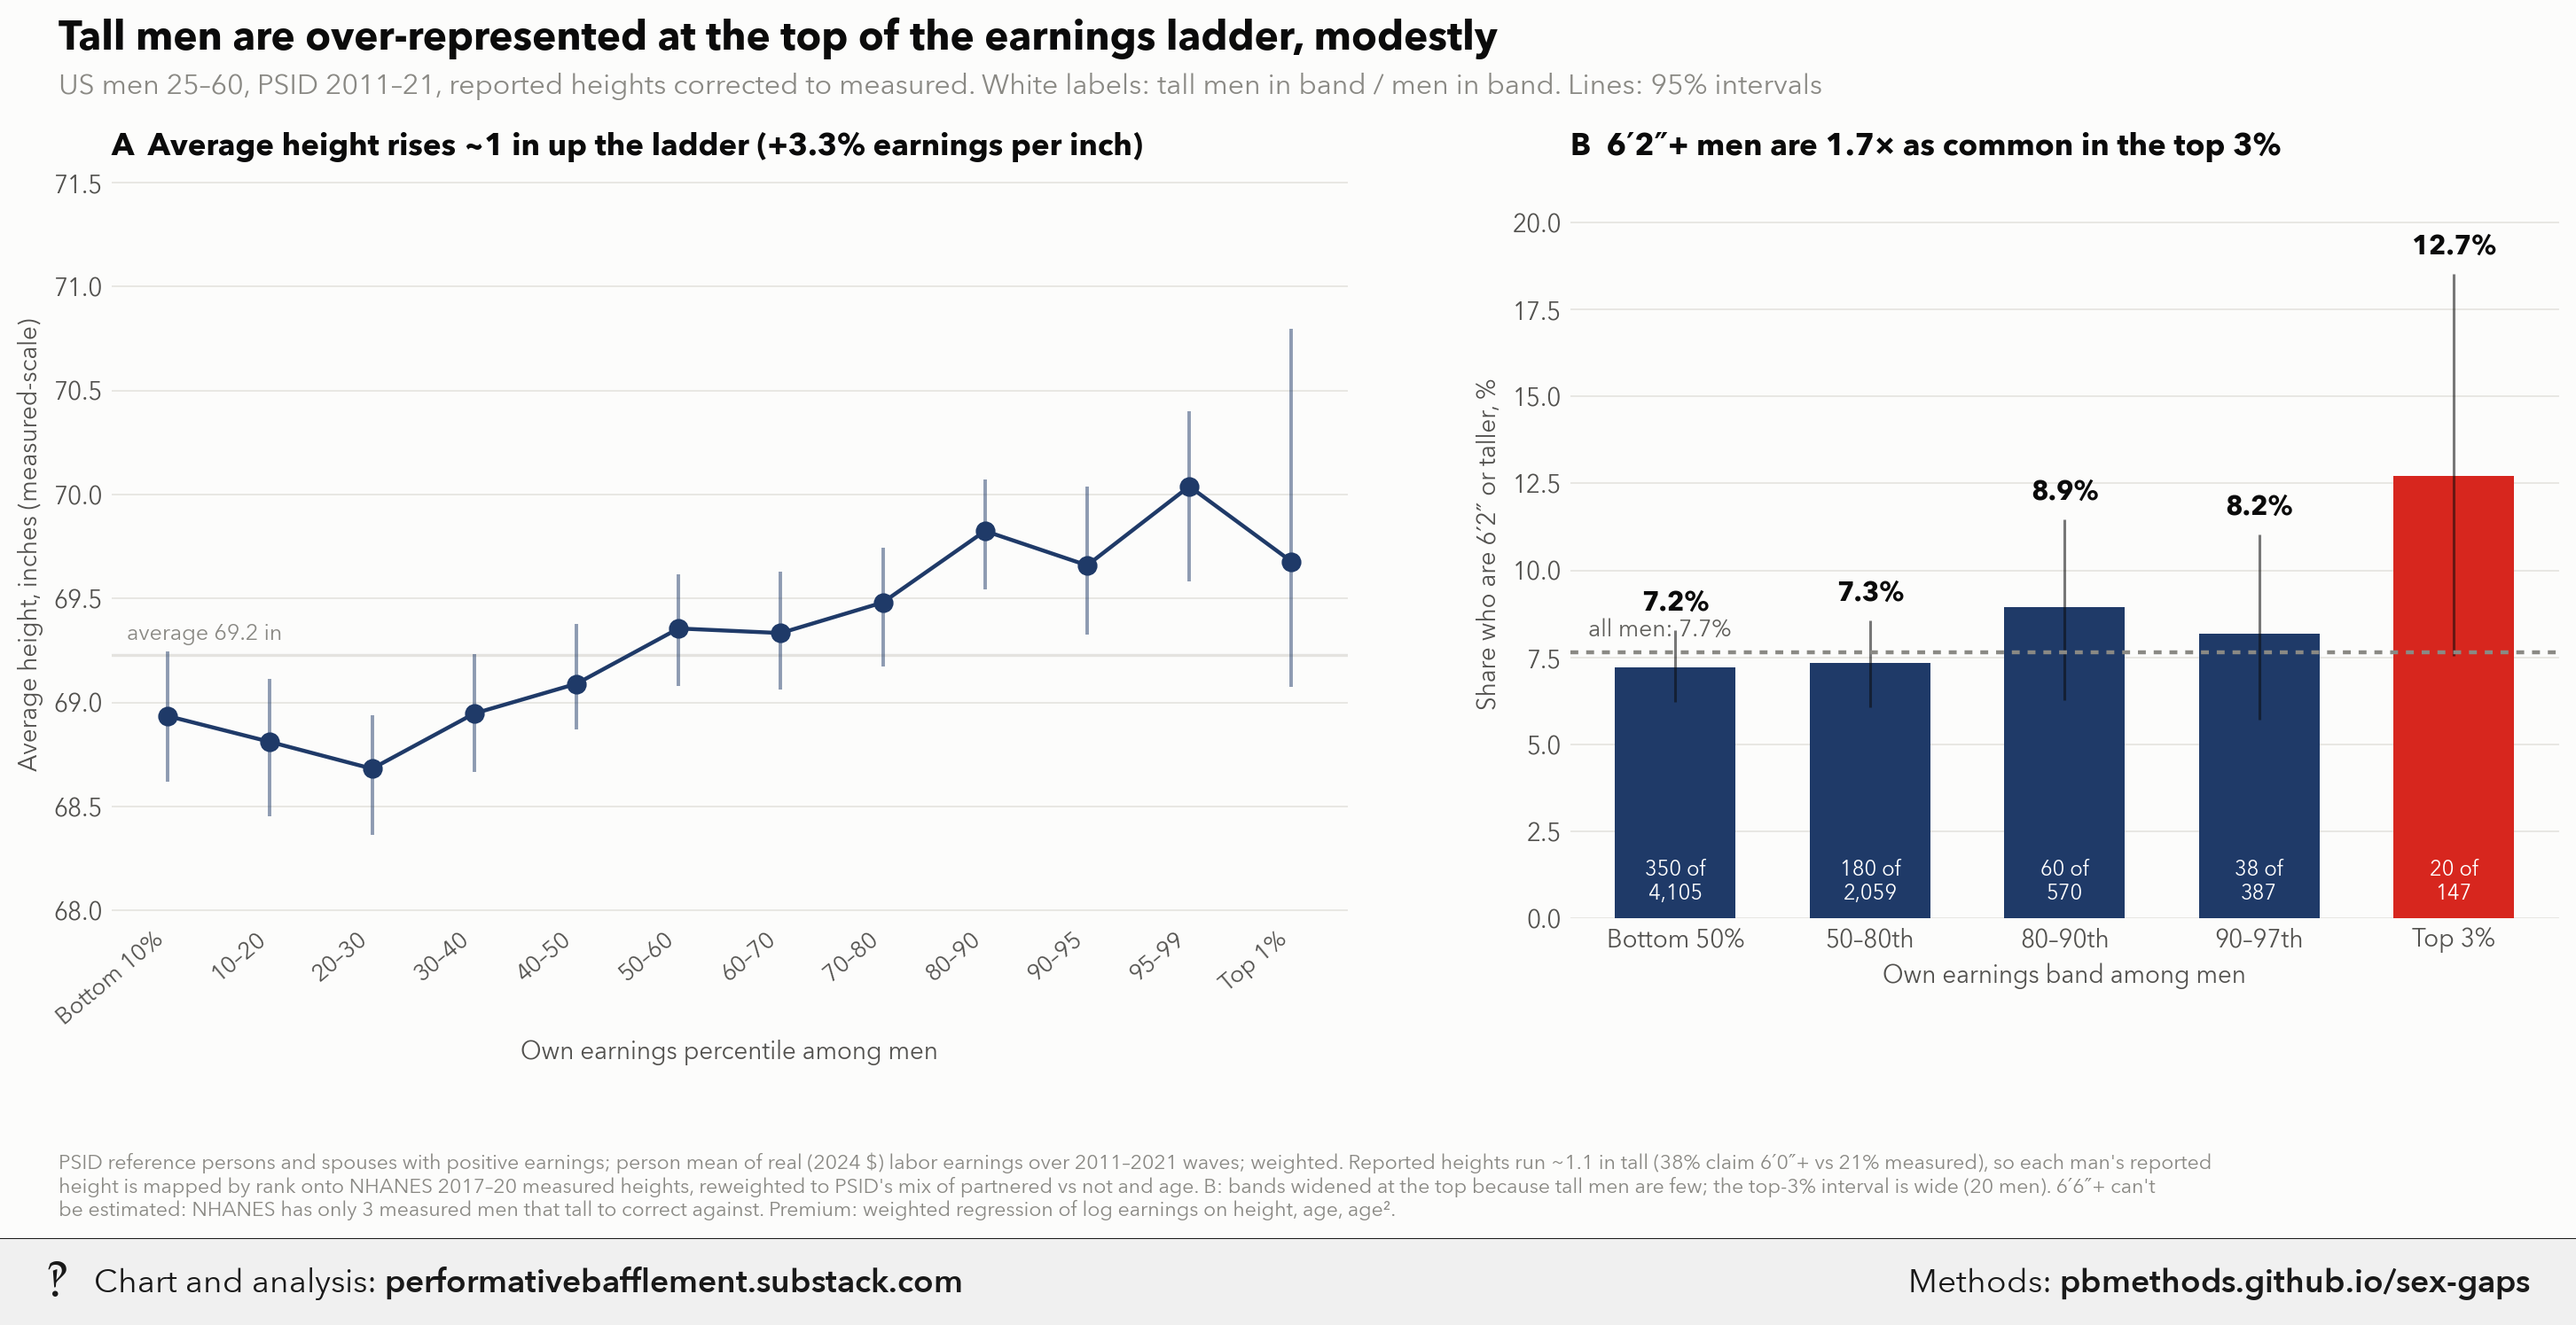
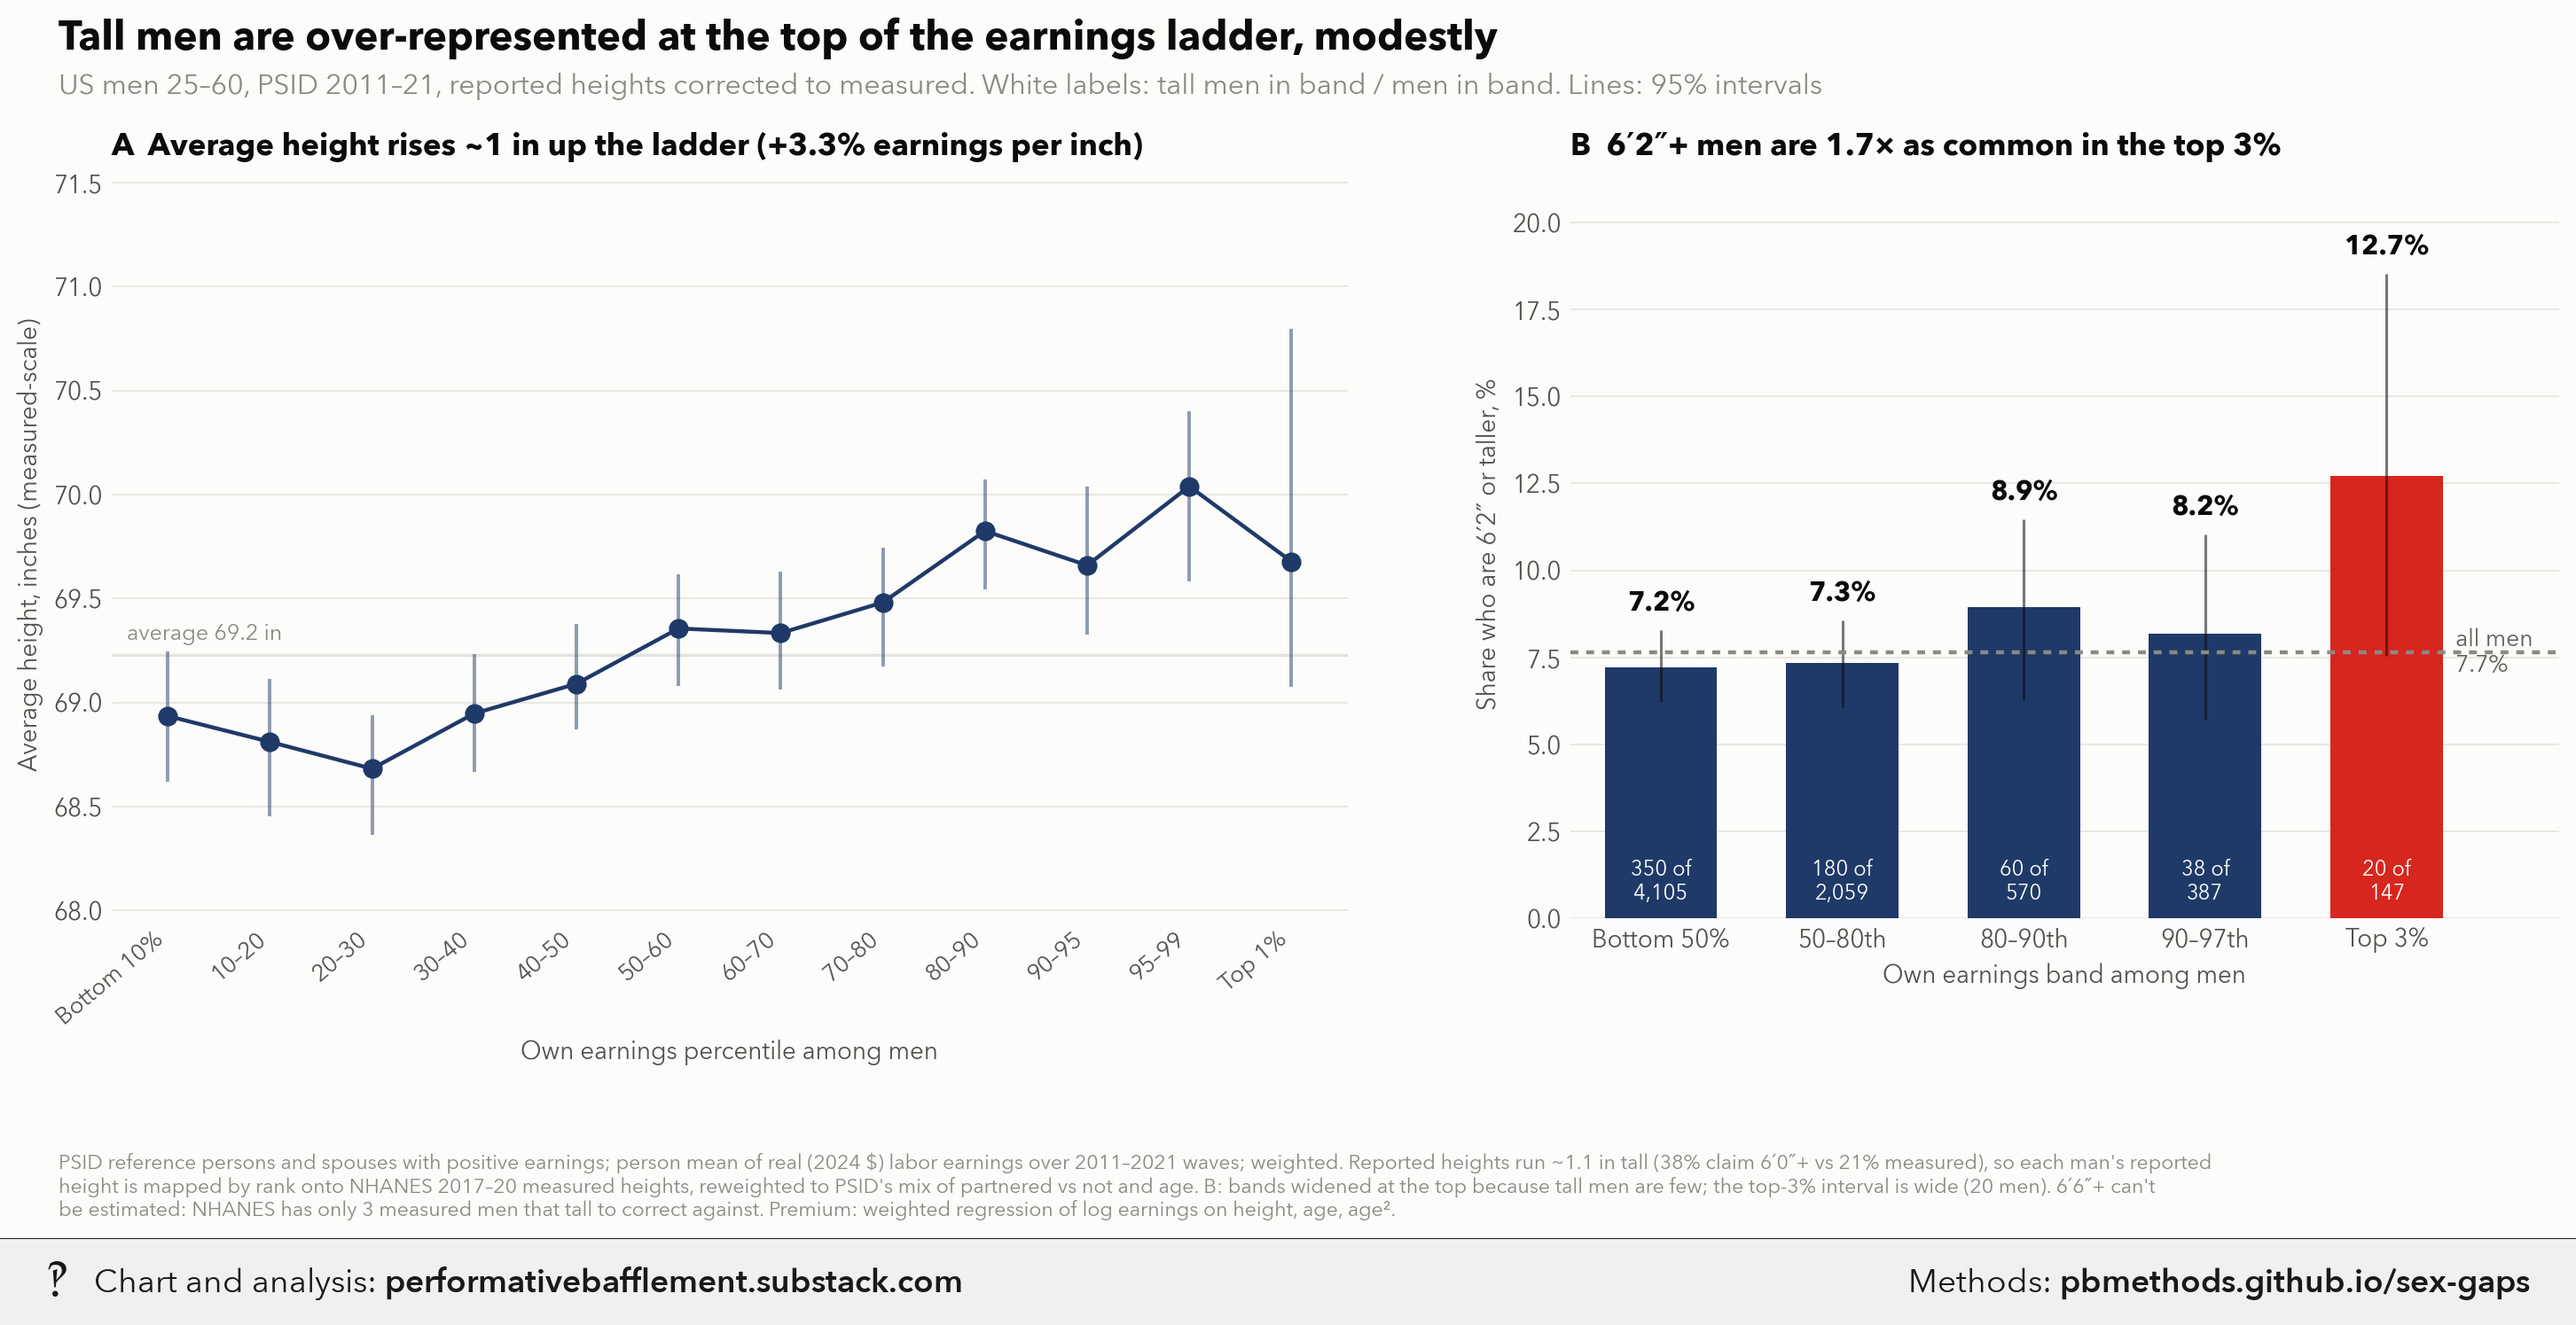
Update sex-gaps

diff --git a/sex-gaps/index.html b/sex-gaps/index.html
@@ -2214,7 +2214,9 @@ def main():
     a2.bar(xb, vals, color=[pb.NAVY] * (len(BANDS) - 1) + [pb.RED], width=.62)
     a2.vlines(xb, [s[2] * 100 for s in shares], [s[3] * 100 for s in shares], color=INK, lw=1.1, alpha=.55)
     a2.axhline(base * 100, color=pb.GRAYS[0], lw=1.6, ls=(0, (2, 2)), zorder=3)
-    a2.text(-.45, base * 100 + .3, f&quot;all men: {base:.1%}&quot;, fontsize=9.5, color=pb.GRAYS[1], va=&quot;bottom&quot;)
+    a2.text(len(BANDS) - .62, base * 100, f&quot;all men\n{base:.1%}&quot;, fontsize=9.5, color=pb.GRAYS[1], va=&quot;center&quot;,
+            ha=&quot;left&quot;, linespacing=1.1)
+    a2.set_xlim(-.5, len(BANDS) - .05)
     for xi, s in zip(xb, shares):
         a2.text(xi, s[3] * 100 + .4, f&quot;{s[1]:.1%}&quot;, ha=&quot;center&quot;, va=&quot;bottom&quot;, fontsize=11, fontweight=&quot;bold&quot;,
                 color=INK)

diff --git a/sex-gaps/methods.md b/sex-gaps/methods.md
@@ -1489,7 +1489,9 @@ def main():
     a2.bar(xb, vals, color=[pb.NAVY] * (len(BANDS) - 1) + [pb.RED], width=.62)
     a2.vlines(xb, [s[2] * 100 for s in shares], [s[3] * 100 for s in shares], color=INK, lw=1.1, alpha=.55)
     a2.axhline(base * 100, color=pb.GRAYS[0], lw=1.6, ls=(0, (2, 2)), zorder=3)
-    a2.text(-.45, base * 100 + .3, f"all men: {base:.1%}", fontsize=9.5, color=pb.GRAYS[1], va="bottom")
+    a2.text(len(BANDS) - .62, base * 100, f"all men\n{base:.1%}", fontsize=9.5, color=pb.GRAYS[1], va="center",
+            ha="left", linespacing=1.1)
+    a2.set_xlim(-.5, len(BANDS) - .05)
     for xi, s in zip(xb, shares):
         a2.text(xi, s[3] * 100 + .4, f"{s[1]:.1%}", ha="center", va="bottom", fontsize=11, fontweight="bold",
                 color=INK)
